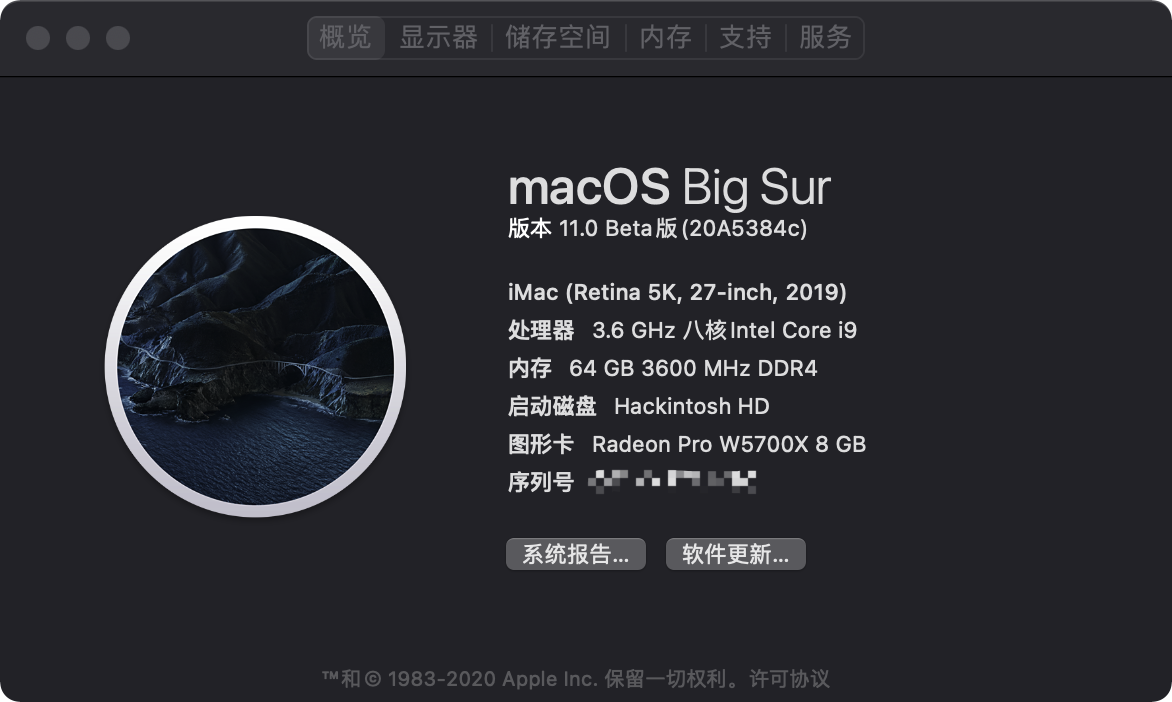
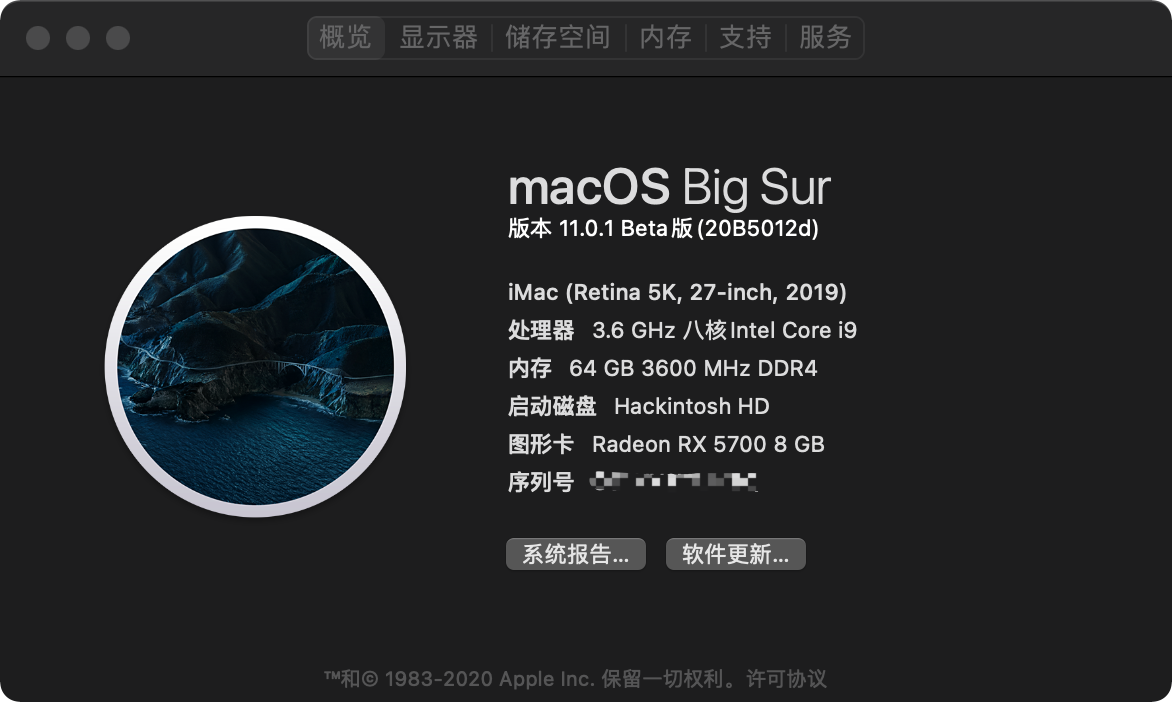
update

diff --git a/README_en.md b/README_en.md
@@ -45,7 +45,7 @@ The motherboard comes with Intel® Wireless-AC 9560 module, support 802.11ac and
 
 * System stability：System has been tested in 11.0 Beta9(20A5384c) with no system crash.
 
-* Graphics：RX5700 driver is normal~~, boosted with a patch to Radeon Pro W5700X 8 GB for better performance~~.  
+* Graphics：RX5700 driver is normal.  
 
 * Sound card：Normal.
 
@@ -71,11 +71,6 @@ The motherboard comes with Intel® Wireless-AC 9560 module, support 802.11ac and
 ![image](https://raw.githubusercontent.com/seanzhang98/ASRock-Z390-Phantom-ITX-OpenCore-Hackintosh/main/imgs/thunderbolts.png)
 ![image](https://raw.githubusercontent.com/seanzhang98/ASRock-Z390-Phantom-ITX-OpenCore-Hackintosh/main/imgs/usb.png)
 ![image](https://raw.githubusercontent.com/seanzhang98/ASRock-Z390-Phantom-ITX-OpenCore-Hackintosh/main/imgs/boot.png)
-
-## Sensors support
-This EFI added sensors support in Big Sur, RX5700's GPU Die temperature is correctly displayed.
-
-![image](https://raw.githubusercontent.com/seanzhang98/ASRock-Z390-Phantom-ITX-OpenCore-Hackintosh/main/imgs/sensors.png)
 
 ## Thunderbolt 3 
 This configuration was flashed Asrock special BIOS 4.40c to support TB3 function.
@@ -110,6 +105,8 @@ Advanced \ Intel (R) Thunderbolt → GPIO3 Force Pwr : Enable
   Solution: change the model into iMac Pro, however, you will lose the SideCar function.
 
 ## Update Logs
+
+0.6.3.2: re-builded the EFI, removed FakeSMC (tested in 11.0.1 Beta(20B5012d)).
 
 0.6.3.1: Fix mirror errors.
 

diff --git a/README.md b/README.md
@@ -44,7 +44,7 @@
 
 * 系统稳定性：在 macOS 11.0 Beta9(20A5384c) 中没有系统崩溃。
 
-* 显卡：RX5700 驱动正常~~, 使用补丁伪装成 Radeon Pro W5700X 8 GB 以获得更好的性能~~。  
+* 显卡：RX5700 驱动正常。
 
 * 声卡：正常。
 
@@ -70,11 +70,6 @@
 ![image](https://raw.githubusercontent.com/seanzhang98/ASRock-Z390-Phantom-ITX-OpenCore-Hackintosh/main/imgs/thunderbolts.png)
 ![image](https://raw.githubusercontent.com/seanzhang98/ASRock-Z390-Phantom-ITX-OpenCore-Hackintosh/main/imgs/usb.png)
 ![image](https://raw.githubusercontent.com/seanzhang98/ASRock-Z390-Phantom-ITX-OpenCore-Hackintosh/main/imgs/boot.png)
-
-## 传感器支持
-本 EFI 支持在 Big Sur 中显示主板相关传感器, RX5700 的 GPU 核心温度也能正常显示。
-
-![image](https://raw.githubusercontent.com/seanzhang98/ASRock-Z390-Phantom-ITX-OpenCore-Hackintosh/main/imgs/sensors.png)
 
 ## 雷霹3驱动
 本教程参考了房大叔的教程，刷了华擎的4.40c BIOS。
@@ -112,6 +107,8 @@ Advanced \ Intel (R) Thunderbolt → GPIO3 Force Pwr : Enable
   解决方案：清除 CMOS 和 nvram，并运行 "sudo nvram -d aapl,panic-info" 清除kernel panic 文件。
 
 ## 更新日志
+
+0.6.3.2: 重构 EFI，移除 FakeSMC。（已在 11.0.1 Beta版(20B5012d) 测试）
 
 0.6.3.1: 修复部分问题
 
